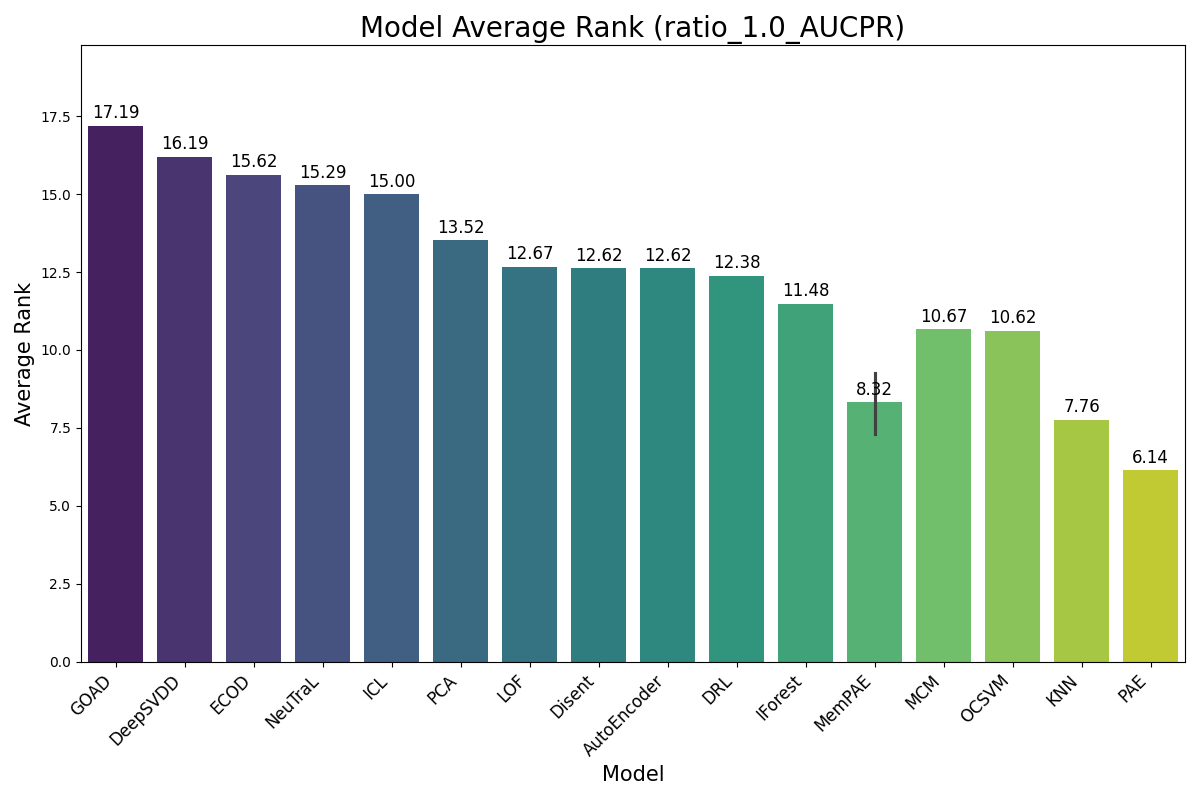
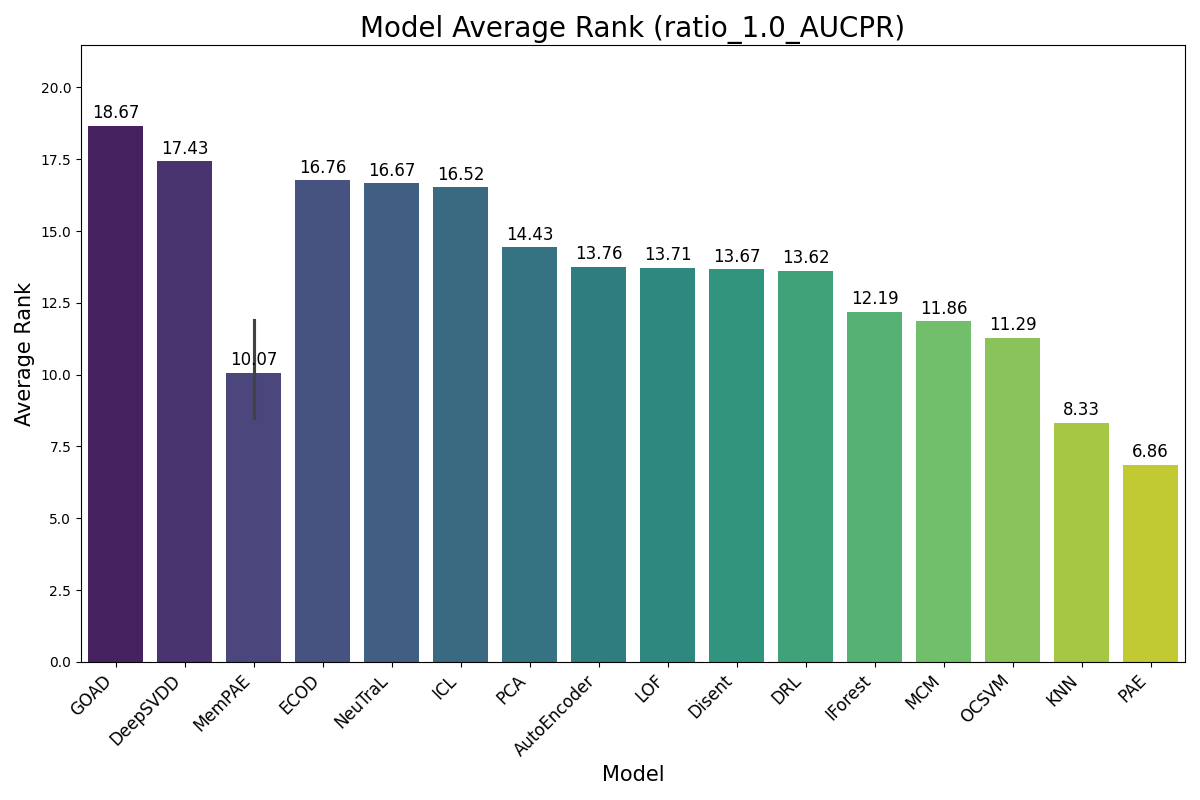
temp

diff --git a/summary.py b/summary.py
@@ -463,6 +463,10 @@ def main(args):
         'MemPAE-ws-cross_attn-pos_query+token-use_ent_score-ent0.01-d64-lr0.001',
         'MemPAE-ws-cross_attn-pos_query+token-use_ent_score-ent0.001-d64-lr0.001',
         'MemPAE-ws-cross_attn-pos_query+token-d64-lr0.001',
+        'MemPAE-ws-cross_attn-rin-pos_query+token-L2-d64-lr0.001',
+        'MemPAE-ws-cross_attn-rin-pos_query+token-d32-lr0.001',
+        'MemPAE-ws-cross_attn-rin-pos_query+token-d32-lr0.005',
+        'MemPAE-ws-cross_attn-rin-pos_query+token-d64-lr0.005',
 
         # 'MemPAE-ws-pos_query-d64-lr0.001', # without toekn bad no temperature.
 
